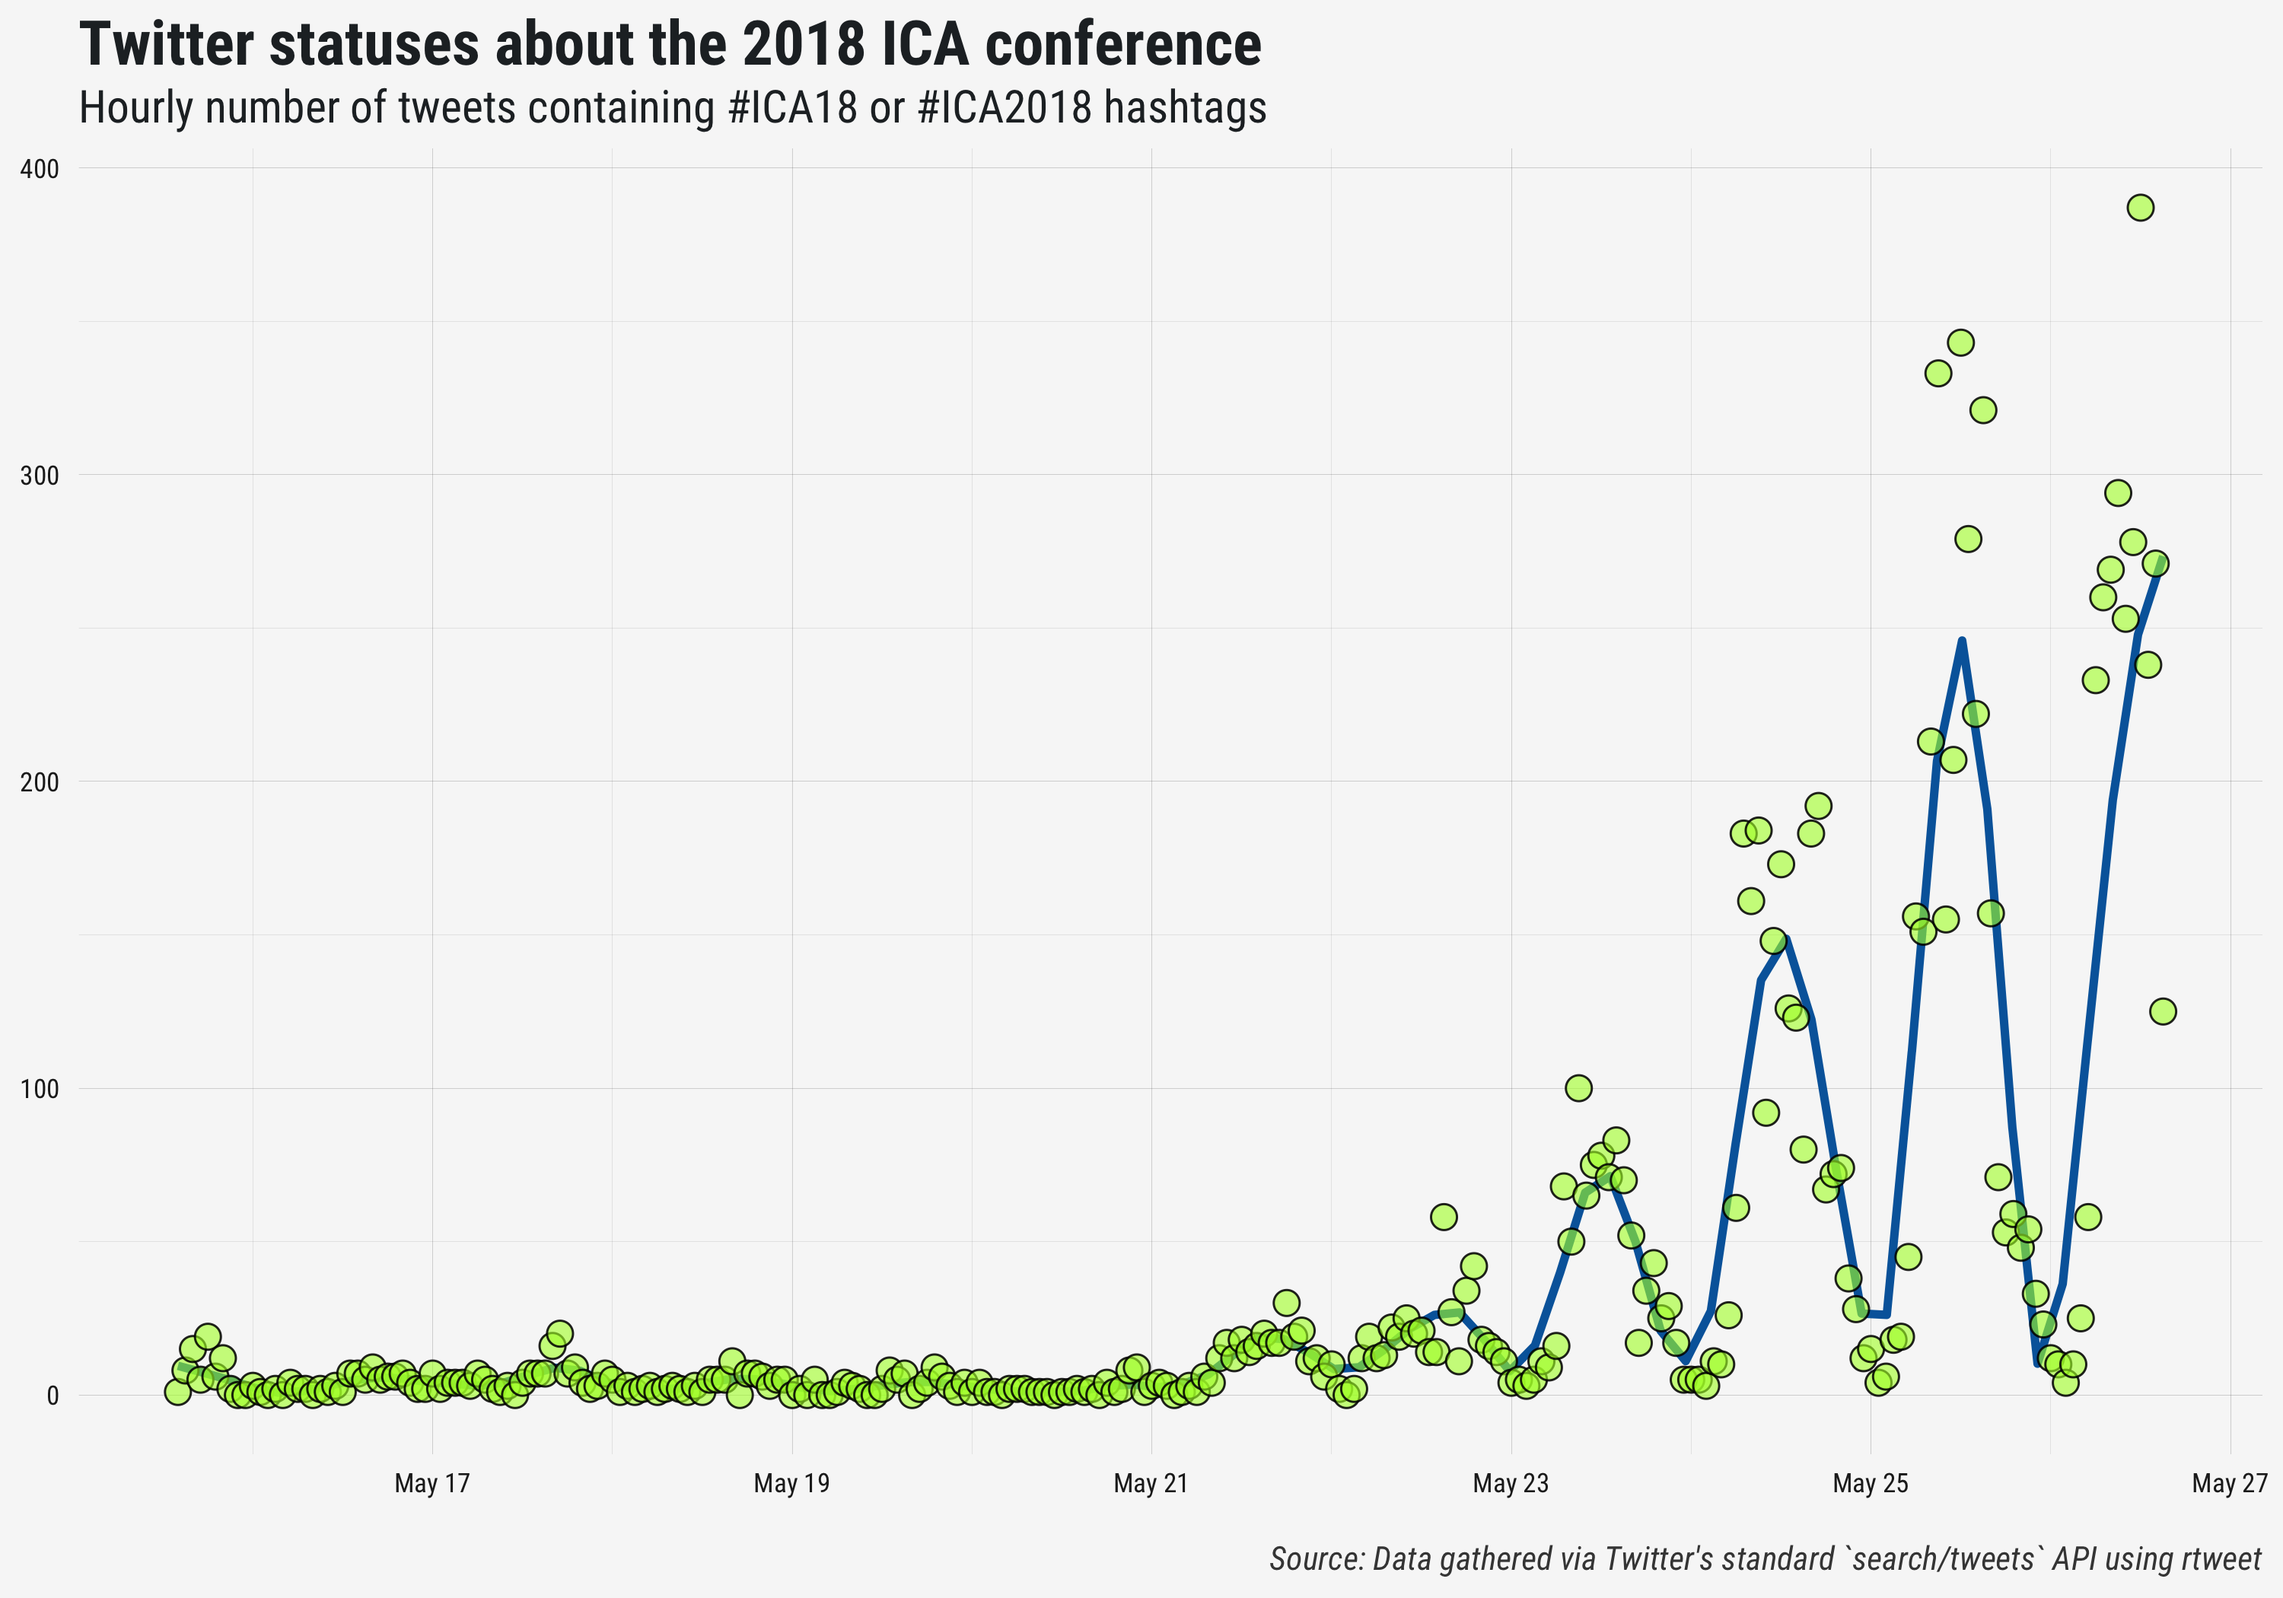
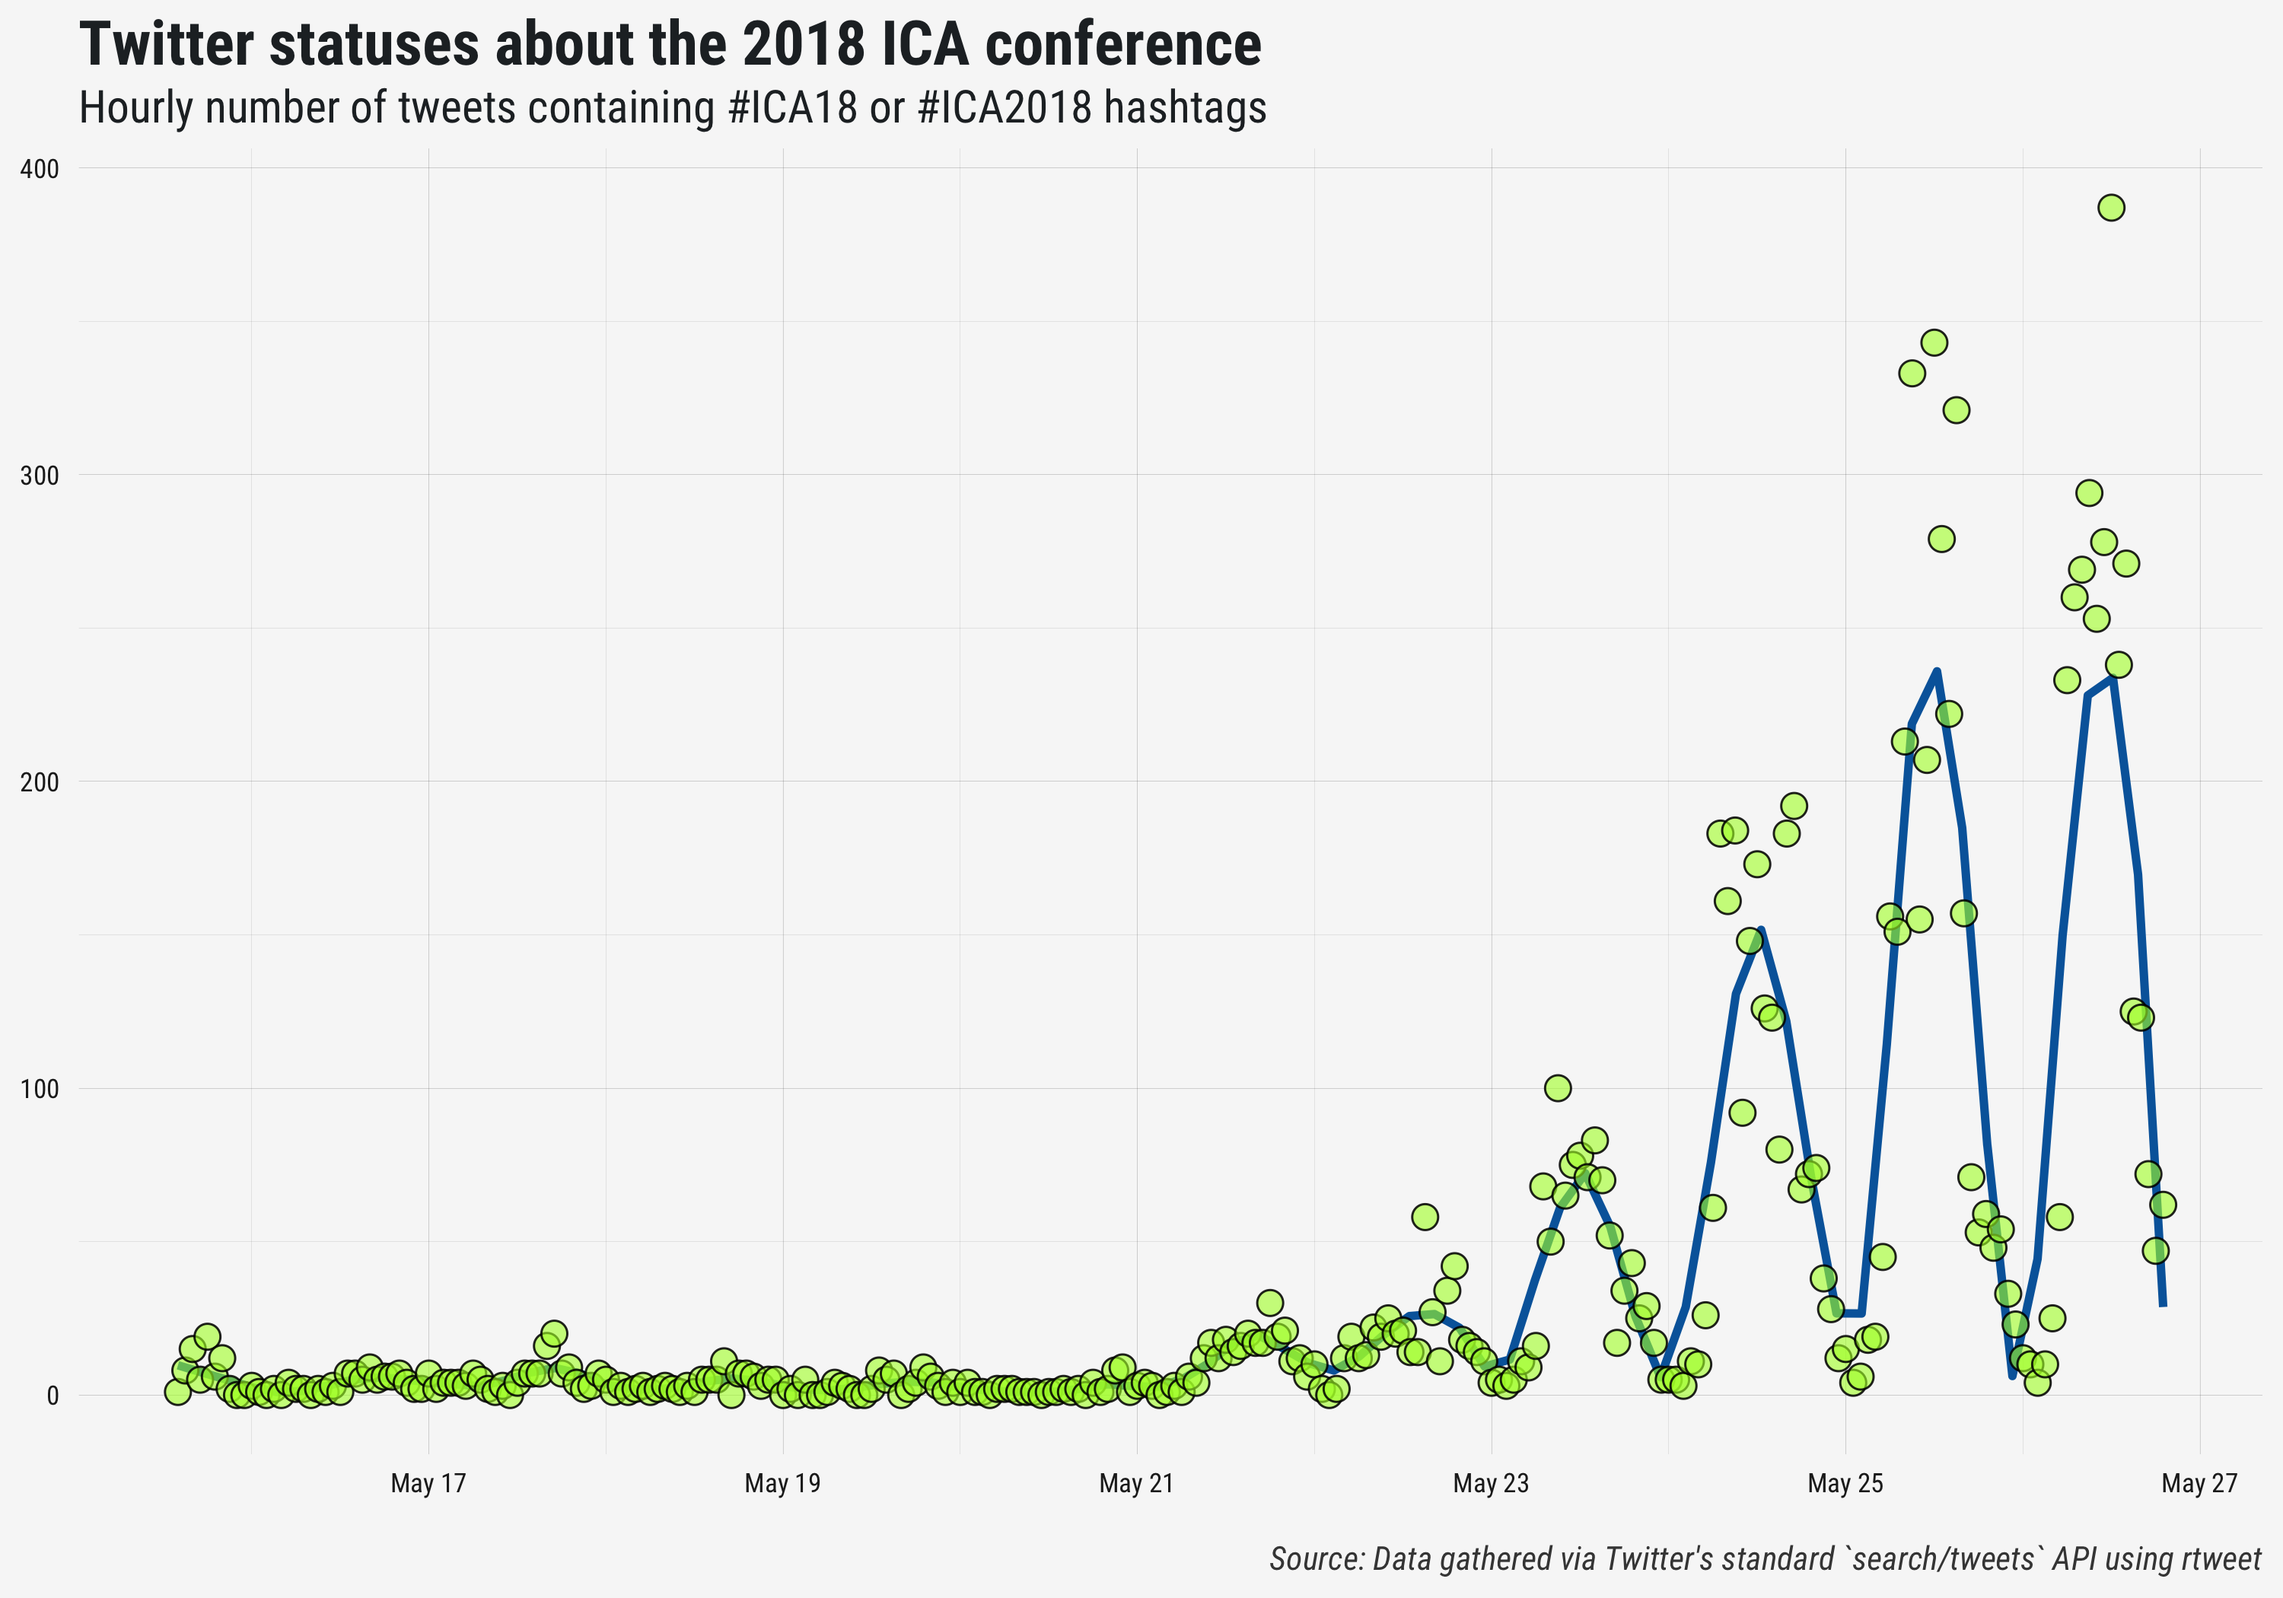
update

diff --git a/README.md b/README.md
@@ -40,20 +40,20 @@ saveRDS(ica, file.path("data", "ica18.rds"))
 
 ## view data
 ica
-#> # A tibble: 9,950 x 87
+#> # A tibble: 10,214 x 87
 #>    user_id status_id created_at          screen_name text  source display_text_wi… reply_to_status…
 #>    <chr>   <chr>     <dttm>              <chr>       <chr> <chr>             <dbl> <chr>           
-#>  1 119698… 10004134… 2018-05-26 16:28:46 biscottto   RT @… Twitt…             140. <NA>            
-#>  2 163660… 10004132… 2018-05-26 16:27:53 ICD_AEJMC   RT @… Twitt…             140. <NA>            
-#>  3 247370… 10004135… 2018-05-26 16:29:04 ILorscheid  RT @… Twitt…             140. <NA>            
-#>  4 852439… 10004131… 2018-05-26 16:27:46 ankahajkova RT @… Twitt…             139. <NA>            
-#>  5 163660… 10004131… 2018-05-26 16:27:24 ICD_AEJMC   RT @… Twitt…             116. <NA>            
-#>  6 232558… 10004127… 2018-05-26 16:25:52 PaoloBory   RT @… Twitt…             107. <NA>            
-#>  7 286728… 10004128… 2018-05-26 16:26:29 ygnieves    RT @… Twitt…             140. <NA>            
-#>  8 461116… 10004129… 2018-05-26 16:26:54 DCInbox     RT @… Twitt…             140. <NA>            
-#>  9 101038… 10002963… 2018-05-26 08:43:20 lsangalang  RT @… Twitt…             139. <NA>            
-#> 10 101038… 10003904… 2018-05-26 14:57:23 lsangalang  RT @… Twitt…             139. <NA>            
-#> # ... with 9,940 more rows, and 79 more variables: reply_to_user_id <chr>,
+#>  1 389313… 10004695… 2018-05-26 20:11:43 avashley_   Best… Twitt…              29. <NA>            
+#>  2 100448… 10004680… 2018-05-26 20:05:33 lauraolkko… #R2D… Twitt…              90. <NA>            
+#>  3 102678… 10004307… 2018-05-26 17:37:28 judyinthes… the … Twitt…              76. <NA>            
+#>  4 102678… 10004187… 2018-05-26 16:49:56 judyinthes… got … Twitt…              92. <NA>            
+#>  5 102678… 10004433… 2018-05-26 18:27:31 judyinthes… #ica… Twitt…              80. <NA>            
+#>  6 102738… 10004356… 2018-05-26 17:57:07 vivmarshuk  RT @… Twitt…             140. <NA>            
+#>  7 104196… 10004441… 2018-05-26 18:30:42 sjwade6     Wond… Twitt…              73. <NA>            
+#>  8 104589… 10004286… 2018-05-26 17:29:04 UOsojc      RT @… Twitt…             140. <NA>            
+#>  9 104589… 10004285… 2018-05-26 17:28:52 UOsojc      RT @… Twitt…             140. <NA>            
+#> 10 104920… 10004637… 2018-05-26 19:48:41 wishcrys    RT @… Twitt…             140. <NA>            
+#> # ... with 10,204 more rows, and 79 more variables: reply_to_user_id <chr>,
 #> #   reply_to_screen_name <chr>, is_quote <lgl>, is_retweet <lgl>, favorite_count <int>,
 #> #   retweet_count <int>, hashtags <list>, symbols <list>, urls_url <list>, urls_t.co <list>,
 #> #   urls_expanded_url <list>, media_url <list>, media_t.co <list>, media_expanded_url <list>,
